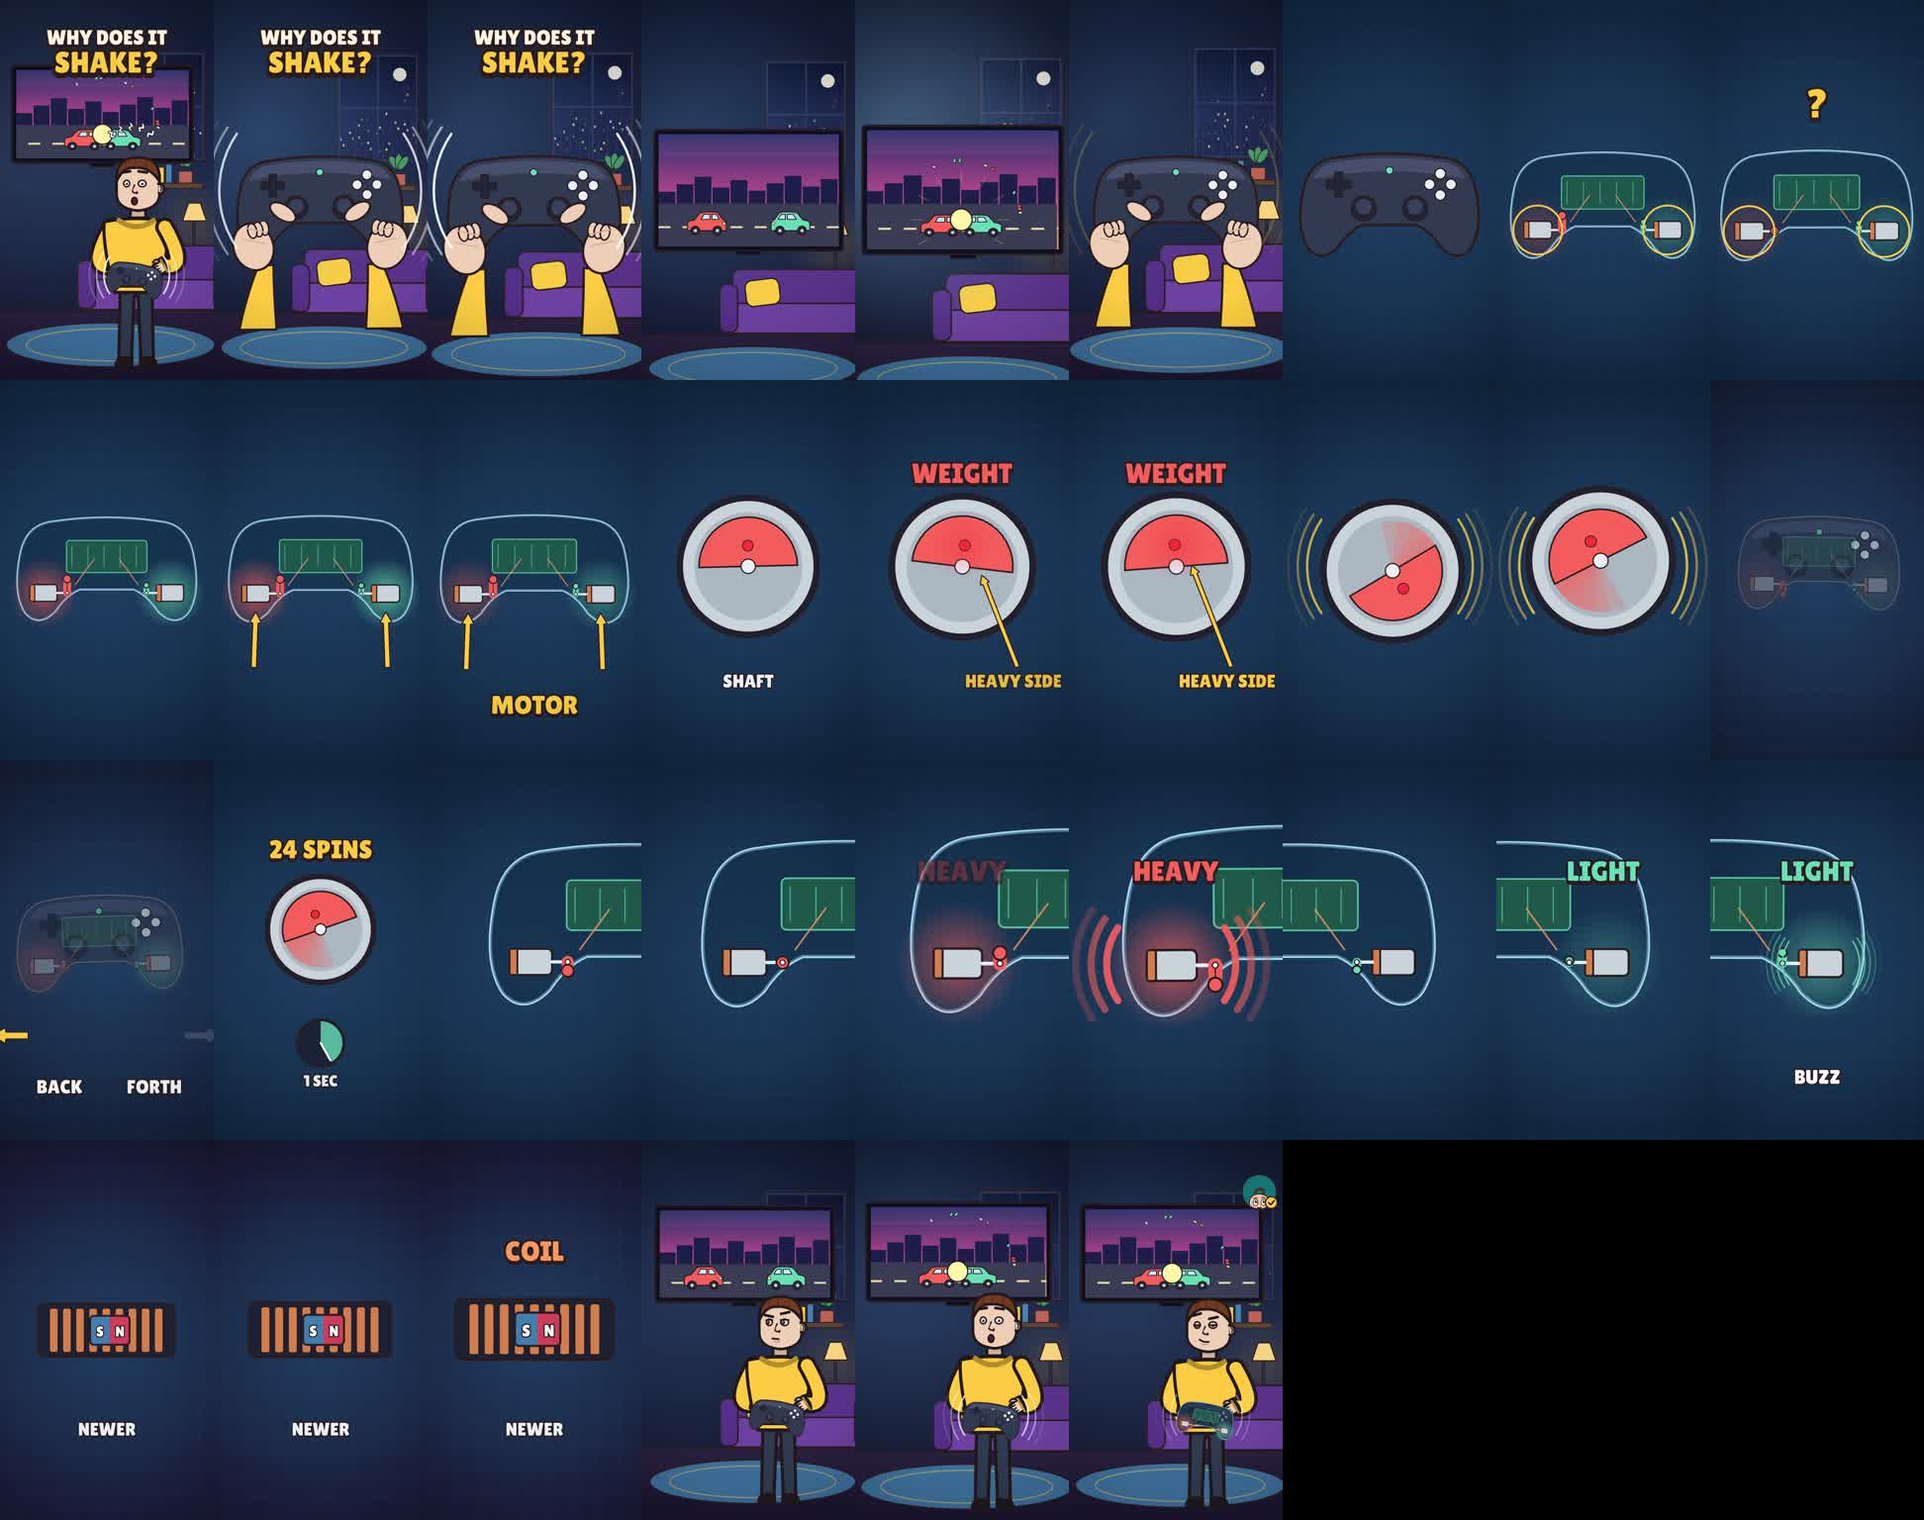
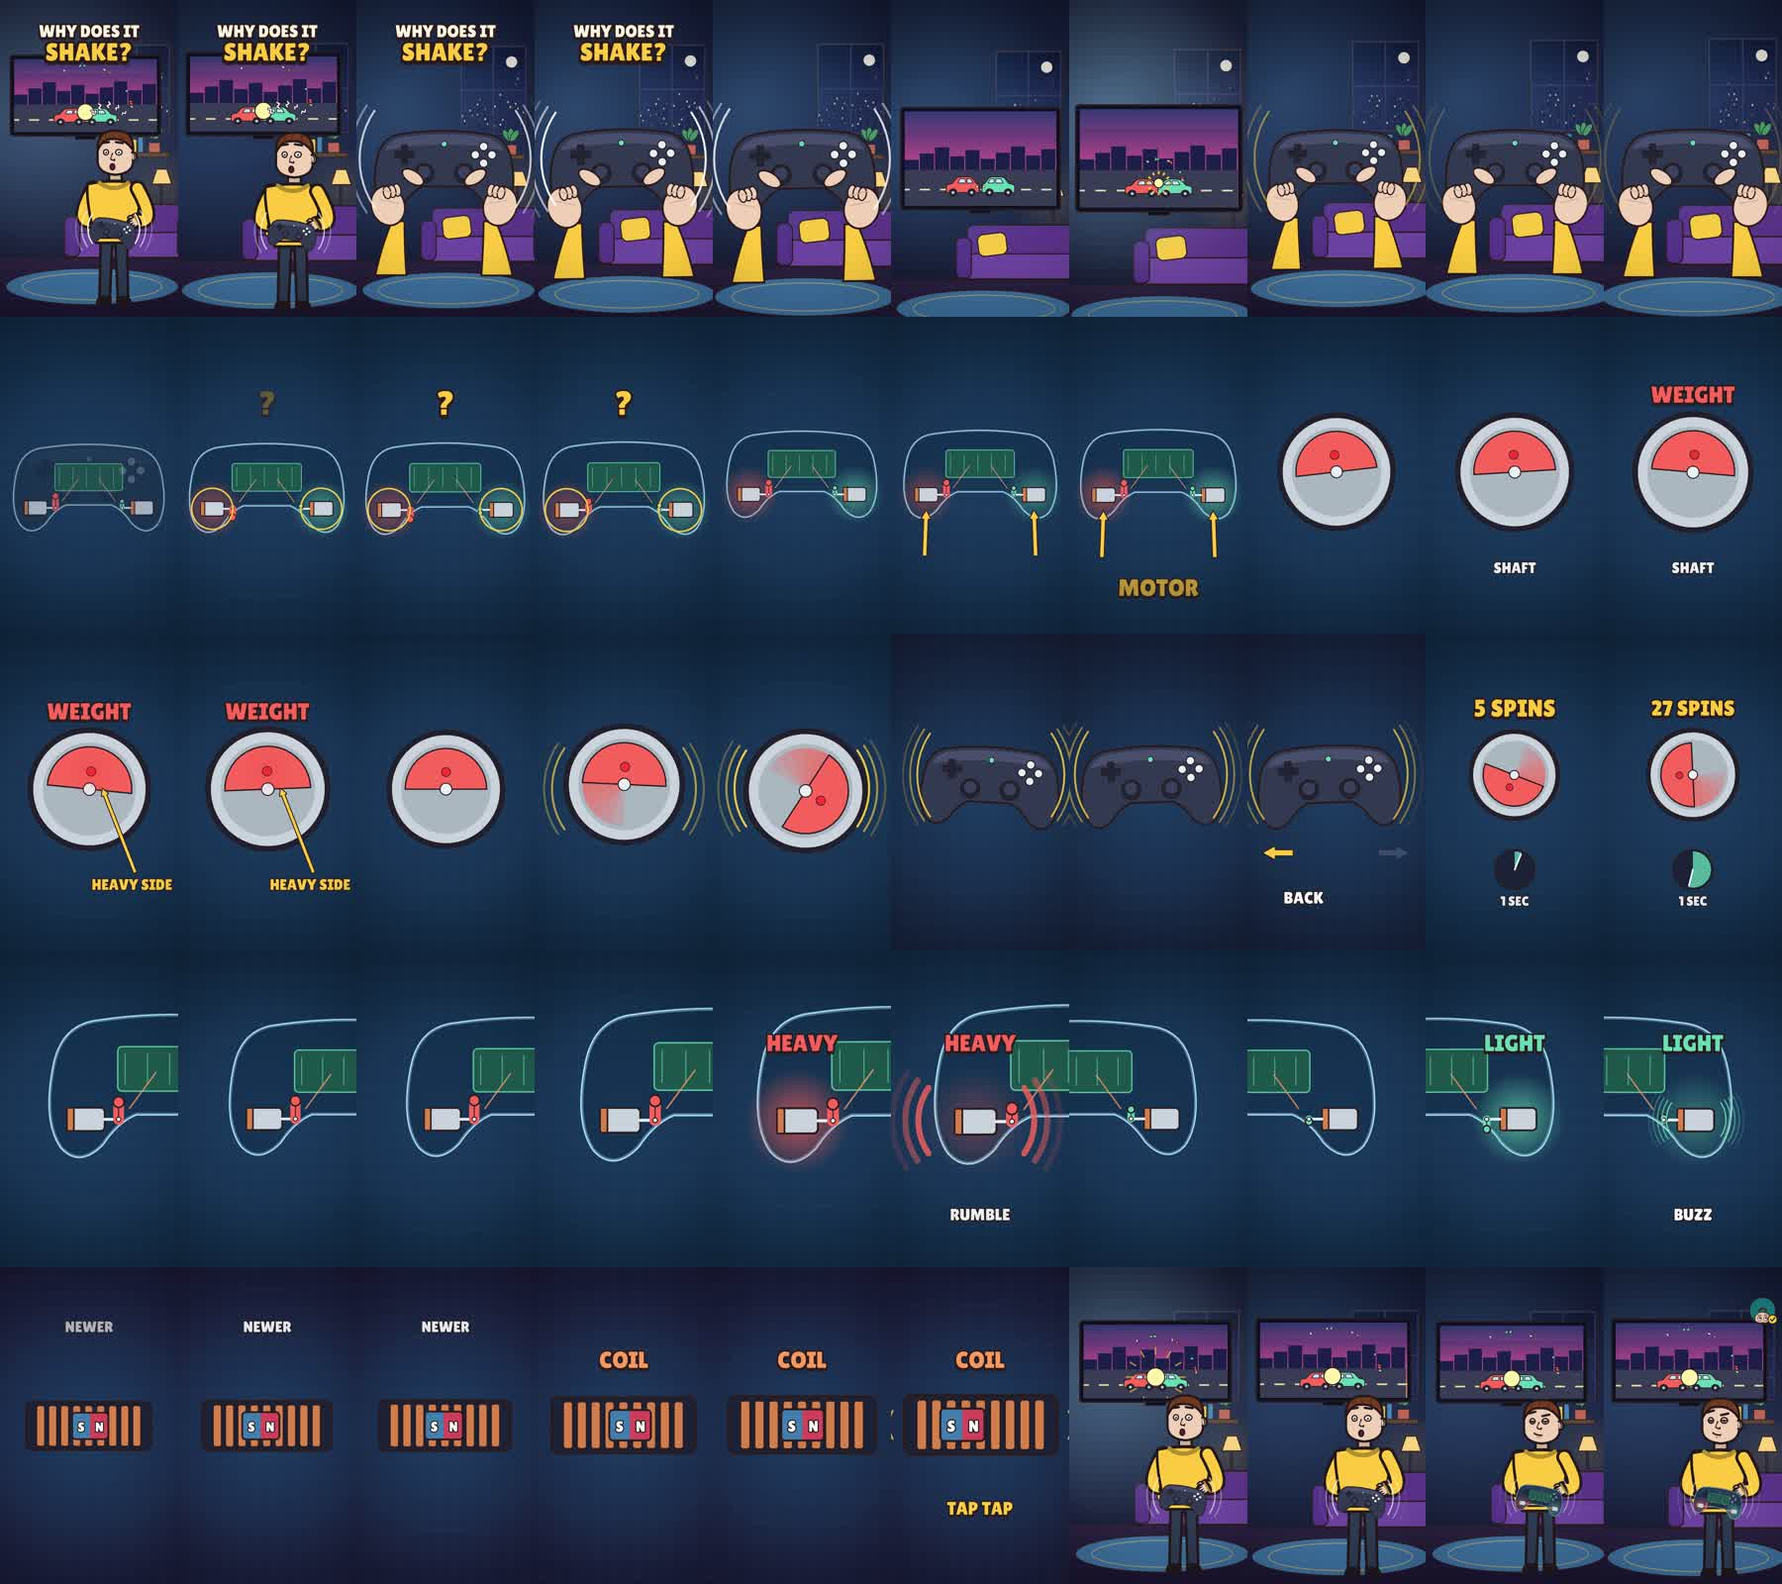
A-029/A-030/A-031: final renders QA pass, uploaded 5ryX939np_w (Sat 12 Dec), jPrVioaxbNY (Fri 25 Dec), MC19B4dK33U (Tue 29 Dec) 18:00 UTC; thumbs, SRT, AI registers, STATUS calendar, topic_results, library index
Claude-Session: https://claude.ai/code/session_01BQj2DcokUc94sJwoPaFJRE

diff --git a/STATUS.md b/STATUS.md
@@ -7,8 +7,9 @@ Rules added 22 Nov (all in CLAUDE.md): 5 posts/week, 1 per day, Mon+Wed free, lo
 docs/growth_strategy.md · docs/competitor_targeting.md (never creator names in metadata) · cast v2.2 (arms/turns) · 30 days scheduled → STOP.
 
 CALENDAR (UTC). Scheduled: Sun 22 A-021 · Mon 23 16:00 A-025 T3CvD2HqRaE (trend swap, owner 23 Nov; A-017 moved to Tue 22 Dec 18:00) · Tue 24 A-012 · Wed 25 A-011 · Thu 26 A-013 · Fri 27 A-018 · Sat 28 18:00 A-028 6OXodt-6jFo (windshield, Style F; owner one-time winter exception to the posting days, 25 Nov) · Sun 29 17:00 L4 dgmYB0zPALw ·
-Tue 1 Dec 18:00 L4-C1 PtETjFRHH24 · Thu 3 Dec 16:00 A-010 · Fri 4 Dec 18:00 L4-C2 cXgM0GJELw0 · Sat 5 Dec 18:00 A-019 1I_m4OaiQzE · Sun 6 Dec 16:00 A-016 · Fri 11 Dec 18:00 A-022 VAUl6EfZebw · Sun 13 Dec 17:00 L6 acW1qBL5TzI (brain glitches, Style F) · Tue 15 Dec 18:00 A-026 -8MLpCFqDuw (tongue on frozen pole, Style F) · Thu 17 Dec 18:00 L6-C1 zvHTp6BC06E (phantom phone buzz) · Fri 18 Dec 18:00 A-023 3ZAI7vLZZkE (foot asleep, Style F) · Sat 19 Dec 18:00 A-024 sJ8lsYNlHTk (microwave mesh) · Sun 20 Dec 17:00 L7 NnTHvcf23Vc (cats vs dogs, Style F) · Tue 22 Dec 18:00 A-017 S8zIxiPXHpE (moved) · Thu 24 Dec 18:00 A-027 _6wnNSSo4fU (reindeer eyes, Style F) · Sat 26 Dec 18:00 L7-C1 KnGjNdHW0l4 (puppy eyes).
+Tue 1 Dec 18:00 L4-C1 PtETjFRHH24 · Thu 3 Dec 16:00 A-010 · Fri 4 Dec 18:00 L4-C2 cXgM0GJELw0 · Sat 5 Dec 18:00 A-019 1I_m4OaiQzE · Sun 6 Dec 16:00 A-016 · Fri 11 Dec 18:00 A-022 VAUl6EfZebw · Sat 12 Dec 18:00 A-029 5ryX939np_w (controller rumble, Style F) · Sun 13 Dec 17:00 L6 acW1qBL5TzI (brain glitches, Style F) · Tue 15 Dec 18:00 A-026 -8MLpCFqDuw (tongue on frozen pole, Style F) · Thu 17 Dec 18:00 L6-C1 zvHTp6BC06E (phantom phone buzz) · Fri 18 Dec 18:00 A-023 3ZAI7vLZZkE (foot asleep, Style F) · Sat 19 Dec 18:00 A-024 sJ8lsYNlHTk (microwave mesh) · Sun 20 Dec 17:00 L7 NnTHvcf23Vc (cats vs dogs, Style F) · Tue 22 Dec 18:00 A-017 S8zIxiPXHpE (moved) · Thu 24 Dec 18:00 A-027 _6wnNSSo4fU (reindeer eyes, Style F) · Fri 25 Dec 18:00 A-030 jPrVioaxbNY (Christmas lights, Style F) · Sat 26 Dec 18:00 L7-C1 KnGjNdHW0l4 (puppy eyes) · Tue 29 Dec 18:00 A-031 MC19B4dK33U (New Year ball drop, Style F).
 IN PRODUCTION (22 Nov): Mon 7 Dec 17:00 L5 + teaser post (own session session_01BQj2DeXWy7q3QfcuAZWsgi) · Tue 8 + Thu 10 Dec 18:00 L5 cut Shorts (L5 session).
+DONE 25 Nov (owner: a few trending Shorts for empty days): A-029 "Why Does Your Controller Shake?" 5ryX939np_w (Sat 12 Dec 18:00) · A-030 "Why One Bad Bulb Can Turn Off All Your Christmas Lights" jPrVioaxbNY (Fri 25 Dec 18:00) · A-031 "Why Do We Drop a Ball on New Year's Eve?" MC19B4dK33U (Tue 29 Dec 18:00): Style F, QA pass, thumbs set, SRT up, AI field No, registers. 48-h checks: 14 Dec, 27 Dec, 31 Dec.
 DONE 25 Nov: L7 B-007 "Cats vs Dogs: Who's Smarter, and Who Loves You More?" UPLOADED NnTHvcf23Vc (Sun 20 Dec 17:00 UTC, SRT, thumb A, Style F,
 X-vs-Y format, cat 28) + cut Short C1 "Why Dogs Make Puppy Eyes at You" KnGjNdHW0l4 (Sat 26 Dec 18:00 UTC, SRT, thumb), AI field No, registers.
 OWNER: post the teaser (episodes/B-007-cats-vs-dogs/social/post) Fri 18 Dec; Studio → Related video = L7 (NnTHvcf23Vc) on KnGjNdHW0l4.

diff --git a/library/index.md b/library/index.md
@@ -157,3 +157,17 @@ All original (TrueWhys). One episode = `episodes/<ep>/make.py` (`sheet` | `big <
 - lib/cast2.py (B-007): new cast `lena` (green hoodie, red bun) and `vet` (researcher, white coat); new expression `smile` (gentle closed smile).
 - lib/sfxgen.py (B-007): `ring_bell` (round bell), `purr`, `lap`; lib/audio.py `bark` / `meow` (short CC0 trims). lib/music.py moods `match` (sporty), `cozy`.
 - **Car + winter morning `lib/flat_car.py` (25 Nov 2026, A-028, TrueWhys original):** `driveway_dawn` (suburban driveway before sunrise, house, street lamp), `car_front` (generic yellow hatchback, front view; ice sheet that can slide off, melt patch, chip, crack networks), `crack_paths`/`draw_cracks` (branching cracks revealed over time), `kettle` + `spout_pt`, `scraper`, `spray_bottle` (labelled, mist), `earmuffs`, `glass_slab` (cross-section: hot outer band, swell, bend, frost), `dashboard` (inside-car view, defroster heat waves). New SFX in lib/sfxgen.py: `glass_crack`, `pour`, `scrape`.
+- **Gaming night `lib/flat_game.py` (25 Nov 2026, A-029, TrueWhys original):** `game_room` (night living room lit by the TV, window city, sofa, rug),
+  `tv` (wall TV with our own toy-car street race; crash 0→1), `controller` (generic two-grip gamepad, plain buttons; shake, x-ray with heavy/light
+  rumble motors, glow l/r/both), `hands_on` (two hands gripping it), `motor_face` (big end-on motor with off-centre half-moon weight, motion blur),
+  `coil_actuator` (voice-coil magnet tapping), `rumble_waves` (deep or fast vibration arcs).
+- **Holiday lights `lib/flat_lights.py` (25 Nov 2026, A-030):** `porch_dusk` (snowy house front at dusk, door, window, icicles, pines; no religious
+  symbols), `string_pts` + `light_string` (swagged string, per-bulb on levels, dead bulb, pulled-out bulb), `wave_on` (dark/light wave along the
+  string), `big_bulb` (cut-away: filament glow/snap, lead wires, shunt highlight + current arc), `loop_diagram` (series loop: moving charges, break,
+  bypass, highlight), `plug`.
+- **Time ball / New Year `lib/flat_timeball.py` (25 Nov 2026, A-031):** `city_square` (night city, era "now"/"1907"), `tower_top` (generic tower +
+  mast), `glow_ball` (modern / 1907), `crowd_sil` (cheering silhouettes, top hats), `fireworks`, `confetti`, `harbour_1833` (sunny river),
+  `observatory` (red time ball on a mast, ball_v), `tall_ship`, `chronometer` (minute-off ghost hand), `clock_face2`, `sea_chart` (course drifting off).
+- New SFX in lib/sfxgen.py (25 Nov): `rumble`, `buzz_fast`, `whir`, `crash`, `bulb_pop`, `power_off`, `power_on`, `firework`, `clunk`.
+  `lib/flat_split.split_long(V, keep_cam=True)` keeps each shot's own camera on the extra cuts. `tools/tempo_lines.py <ep> 1.05` speeds narration
+  lines (pitch kept) and rescales timing.json without a new TTS request.

diff --git a/episodes/A-029-controller-rumble/qa.md b/episodes/A-029-controller-rumble/qa.md
@@ -1,0 +1,24 @@
+# A-029 QA
+
+## v1 final — 25 Nov 2026 — PASS
+Style F, CPU render (allowed as final), 1080×1920, 30 fps, 33.1 s, −14.2 LUFS, peak −2.6 dB. Gemini voice (one request, master voice/ch0.flac);
+final audio heard back with whisper: script word for word. Contact sheets checked: animatic/stills.jpg, animatic/final_sheet.jpg.
+- [x] Script researched, 2+ sources per claim (sources.md); "on many controllers" for heavy-left/light-right; "dozens of times a second" = 15–45 Hz
+- [x] Animatic checked and fixed before the final: TV moved under the title and enlarged, motor weights made readable in the x-ray (shaft points
+      inward, weight on a swinging arm), heavy/light close-ups re-framed on each motor, hands given fingers; after render v1: the "back and forth"
+      shot (pad was half off-screen and faded) redrawn solid and centred, the coil shot given visible tap ripples + "TAP TAP" (render v2 = final)
+- [x] Frame 1: TV race already crashing, room flash, pad jolting (crash + rumble SFX at 0.0 s), shocked face 54.7 % of frame height;
+      4-word question "WHY DOES IT SHAKE?"; first cut 1.2 s
+- [x] Line 2 raises stakes ("Every hit, every crash… one lopsided weight"), no background; payoff in the last 3 s on the frame-1 framing (loop:
+      crash again, x-ray of the pad in his hands); Wy badge only (0.7 s)
+- [x] A visual change at least every 3 s (17 shots, longest 3.07 s with a label pop inside); eased camera; blinks/breathing on
+- [x] No burned-in captions (SRT final/captions_en.srt to upload); in-picture English only short labels (WHY DOES IT SHAKE?, MOTOR, WEIGHT, SHAFT,
+      HEAVY SIDE, BACK, FORTH, n SPINS, 1 SEC, HEAVY, RUMBLE, LIGHT, BUZZ, NEWER, COIL, TAP TAP)
+- [x] Characters: cast v2.2 Student; 3/4 view facing the TV, both arms "hold" on the pad, no mirror flips, no clipping; own cast and drawings only;
+      generic pad (plain buttons, no logos), our own cartoon race on the TV (no game footage, no brand)
+- [x] Originality + variety vs A-026/A-027/A-028 (winter outdoors) and A-030/A-031: indoor night room, x-ray blueprint look, teen gamer, match/playful music
+- [x] Ethics + religion check: clear
+- [x] Thumbnail: final/thumb_v2.jpg (crash frame + "THE SECRET WEIGHT INSIDE", not the title)
+- [x] AI disclosure: No — flat 2D cartoon, generic TTS voice, code-made music (docs/ai_disclosure.md test); upload_meta.json + register
+- [x] credits.md complete; sources.md complete
+- [x] Schedule: Sat 12 Dec 2026 18:00 UTC; ≥ 23 h from Fri 11 Dec 18:00 (A-022) and Sun 13 Dec 17:00 (L6)

diff --git a/episodes/A-030-string-lights/qa.md b/episodes/A-030-string-lights/qa.md
@@ -1,0 +1,24 @@
+# A-030 QA
+
+## v1 final — 25 Nov 2026 — PASS
+Style F, CPU render (allowed as final), 1080×1920, 30 fps, 35.0 s, −14.2 LUFS, peak −2.7 dB. Gemini voice (one request, master voice/ch0.flac);
+final audio heard back with whisper: script word for word. Contact sheets checked: animatic/stills.jpg, animatic/final_sheet.jpg.
+- [x] Script researched, 2+ sources per claim (sources.md: energy.gov, MSU Extension, HowStuffWorks, patent); "many light strings" (not all)
+- [x] Animatic checked and fixed: light string moved below the title block, dark wave slowed so frame 1 shows the darkness running, light-up starts on
+      "whole" (not in the last 0.5 s), bypass bulb enlarged, push arm slimmer; after render v1: the static "loose" shot got a swaying bulb + a ring
+      on the empty socket, and long shots split at 2.4 s (render v2 = final)
+- [x] Frame 1: a bulb pops with a spark (pop + power-off SFX at 0.0 s) and the darkness runs along the string; shocked face 52.1 % of frame height;
+      4-word question "ONE BULB, ALL DARK?"; first cut 1.7 s
+- [x] Line 2 raises stakes ("every light on the string goes dark"), no background; fix in the last 3 s on the frame-1 framing (loop: the string lights
+      up again from the same bulb); Wy badge only (0.7 s)
+- [x] A visual change at least every 3 s (19 shots, longest 2.8 s); eased camera; blinks/breathing on
+- [x] No burned-in captions (SRT to upload); in-picture English only short labels (ONE BULB, ALL DARK?, 1 BULB, SERIES, ONE LOOP, POWER, THIN WIRE,
+      SNAP!, BROKEN, SHUNT, KEEPS GOING, LOOSE)
+- [x] Characters: cast v2.2 Friend with beanie + scarf; 3/4 view, arms up / hip / shrug checked, no mirror flips; own cast and drawings only
+- [x] Religion check: clear — neutral winter decoration only (string lights, snow, pines); no religious symbols, no Santa, no faith content
+- [x] Originality + variety vs A-026/27/28 and A-029/A-031: dusk porch, circuit loop with moving charges, bulb cut-away, cozy/curious music
+- [x] Ethics: safe tip only (push a loose bulb back in); no mains-wiring repair advice
+- [x] Thumbnail: final/thumb_v2.jpg (dark wave frame + "ONE BULB KILLED THEM ALL", not the title)
+- [x] AI disclosure: No — flat 2D cartoon, generic TTS voice, code-made music (docs/ai_disclosure.md test); upload_meta.json + register
+- [x] credits.md complete; sources.md complete
+- [x] Schedule: Fri 25 Dec 2026 18:00 UTC; ≥ 23 h from Thu 24 Dec 18:00 (A-027) and Sat 26 Dec 18:00 (L7-C1)

diff --git a/episodes/A-031-ball-drop/qa.md b/episodes/A-031-ball-drop/qa.md
@@ -1,0 +1,25 @@
+# A-031 QA
+
+## v1 final — 25 Nov 2026 — PASS
+Style F, CPU render (allowed as final), 1080×1920, 30 fps, 35.1 s, −14.3 LUFS, peak −2.4 dB. Gemini voice (one request, master voice/ch0.flac);
+lines sped up 5 % (tools/tempo_lines.py, pitch kept; 36.8 s → 35.1 s). Final audio heard back with whisper: script word for word.
+Contact sheets checked: animatic/stills.jpg, animatic/final_sheet.jpg (+ v2 frames 20–27 s after the label fix).
+- [x] Script researched, 2+ sources per claim (sources.md: RMG, Wikipedia, Smithsonian, NPR, Times Square Alliance); "could mean fifteen miles"
+      (1 min = 15 nm at the equator); no unverified "fireworks ban" claim
+- [x] Animatic + render v1 checked and fixed: "1907" moved off the ball, "1833" moved off the mast (render v2 = final); thumbnail frame chosen
+      with the ball visible under the text
+- [x] Frame 1: the glowing ball already sliding down, fireworks + crowd cheer at 0.0 s, amazed face 53.1 % of frame height; 4-word question
+      "WHY DROP A BALL?"; first cut 1.4 s
+- [x] Line 2 raises stakes ("one wrong clock could send a ship miles off course"), no background; payoff in the last 3 s on the frame-1 framing,
+      the ball slides back down to its frame-1 height (loop); Wy badge only (0.7 s)
+- [x] A visual change at least every 3 s (19 shots, longest 2.6 s); eased camera; blinks/breathing on
+- [x] No burned-in captions (SRT to upload); in-picture English only short labels/numbers (WHY DROP A BALL?, 3-2-1, SHIPS, MILES OFF, HOME TIME,
+      1 MIN, 15 MILES, 1833, 1:00, 1907, 12:00)
+- [x] Characters: cast v2.2 Runner (3/4, point/up arms), Captain (point at the sun), Gentleman (point); no mirror flips, no clipping; own drawings;
+      generic tower/buildings, no real signs or logos, no real people
+- [x] Originality + variety vs A-026/27/28 and A-029/A-030: night city + fireworks, sunny 1830s river with tall ships, sea chart, sepia 1907
+- [x] Ethics + religion check: clear (civil New Year)
+- [x] Thumbnail: final/thumb_v2.jpg (hook frame + "IT STARTED WITH SHIPS", not the title)
+- [x] AI disclosure: No — flat 2D cartoon, generic TTS voice, code-made music (docs/ai_disclosure.md test); upload_meta.json + register
+- [x] credits.md complete; sources.md complete
+- [x] Schedule: Tue 29 Dec 2026 18:00 UTC; nothing else scheduled on 28–30 Dec

diff --git a/topic_results.md b/topic_results.md
@@ -58,3 +58,4 @@ Scheduled 24 Nov: A-024 Why Is There a Metal Net in Your Microwave Door? sJ8lsYN
 Scheduled 25 Nov: A-028 Why Hot Water Can Crack a Frozen Windshield 6OXodt-6jFo (standalone, owner request, 9 Science/everyday object (car glass, winter), Style F v2.2, Why …, frame-1 kettle + crack + 4-word question "WHY DID IT CRACK?", loop ending, Sat 28 Nov 18:00 UTC = owner one-time winter exception to the posting days). 48-h check 30 Nov.
 48-h check 25 Nov (research/stats/2026-11-25.md): A-025 EUV machine 173 views, 2 likes after ~40 h (weak: technical/industry topic, not an everyday object; avoid this angle). A-021 GTA 6 PC retention now in: stayed 54.7 %, avg 65.7 %, rel 0.39/0.49/0.57, drop 12 % (views figure corrected by YouTube to 1,698).
 Scheduled 25 Nov: L7 B-007 Cats vs Dogs: Who's Smarter, and Who Loves You More? NnTHvcf23Vc (long, 8 Animals & nature → cat 28, first X vs Y long video, F v2.2 + new pets, no captions + SRT, hook 'IGNORING YOU?' frame-1 call + ear flick, live scoreboard 3–0 → 5–4, loop ending, Sun 20 Dec 17:00 UTC; test: does a running score lift long-video retention vs L4–L6 tours?) · C1 Why Dogs Make Puppy Eyes at You KnGjNdHW0l4 (cut Short, 30.9 s, hook 'MADE FOR YOU?', Sat 26 Dec 18:00 UTC).
+Scheduled 25 Nov (owner: a few trending Shorts for the empty days): A-029 Why Does Your Controller Shake? 5ryX939np_w (standalone, everyday object/gaming season, Style F v2.2, Why …, crash + jolting pad frame 1 + 'WHY DOES IT SHAKE?', Sat 12 Dec 18:00 UTC) · A-030 Why One Bad Bulb Can Turn Off All Your Christmas Lights jPrVioaxbNY (standalone, everyday object/holiday, Style F v2.2, Why …, bulb pop + dark wave frame 1 + 'ONE BULB, ALL DARK?', Fri 25 Dec 18:00 UTC) · A-031 Why Do We Drop a Ball on New Year's Eve? MC19B4dK33U (standalone, 1 History with a New Year hook, cat 24, Style F v2.2, Why …, falling ball + fireworks frame 1 + 'WHY DROP A BALL?', Tue 29 Dec 18:00 UTC). Test: seasonal search topics on the day people search them.

diff --git a/docs/ai_disclosure.md b/docs/ai_disclosure.md
@@ -61,6 +61,9 @@ Unsure → **Yes** (disclosing never hurts reach or money; a missing disclosure 
 | zvHTp6BC06E | B-006 C1 | Why You Feel Your Phone Buzz When It Didn't | F | **No** |
 | NnTHvcf23Vc | B-007 (L7) | Cats vs Dogs: Who's Smarter, and Who Loves You More? | F | **No** |
 | KnGjNdHW0l4 | B-007 C1 | Why Dogs Make Puppy Eyes at You | F | **No** |
+| 5ryX939np_w | A-029-controller-rumble | Why Does Your Controller Shake? | F | **No** |
+| jPrVioaxbNY | A-030-string-lights | Why One Bad Bulb Can Turn Off All Your Christmas Lights | F | **No** |
+| MC19B4dK33U | A-031-ball-drop | Why Do We Drop a Ball on New Year's Eve? | F | **No** |
 | 9C-9O0c6VqM | B-001-animal-trials | Why Medieval Courts Put Animals on Trial | T | **No** |
 | 5YqYpWmY7EA | B-001-animal-trials/C0 | Why a Pig Was Executed in a Man's Clothes | T | **No** |
 | 33UzHb61eKc | B-001-animal-trials/C1 | Why a French Town Put a Pig on Trial | T | **No** |
